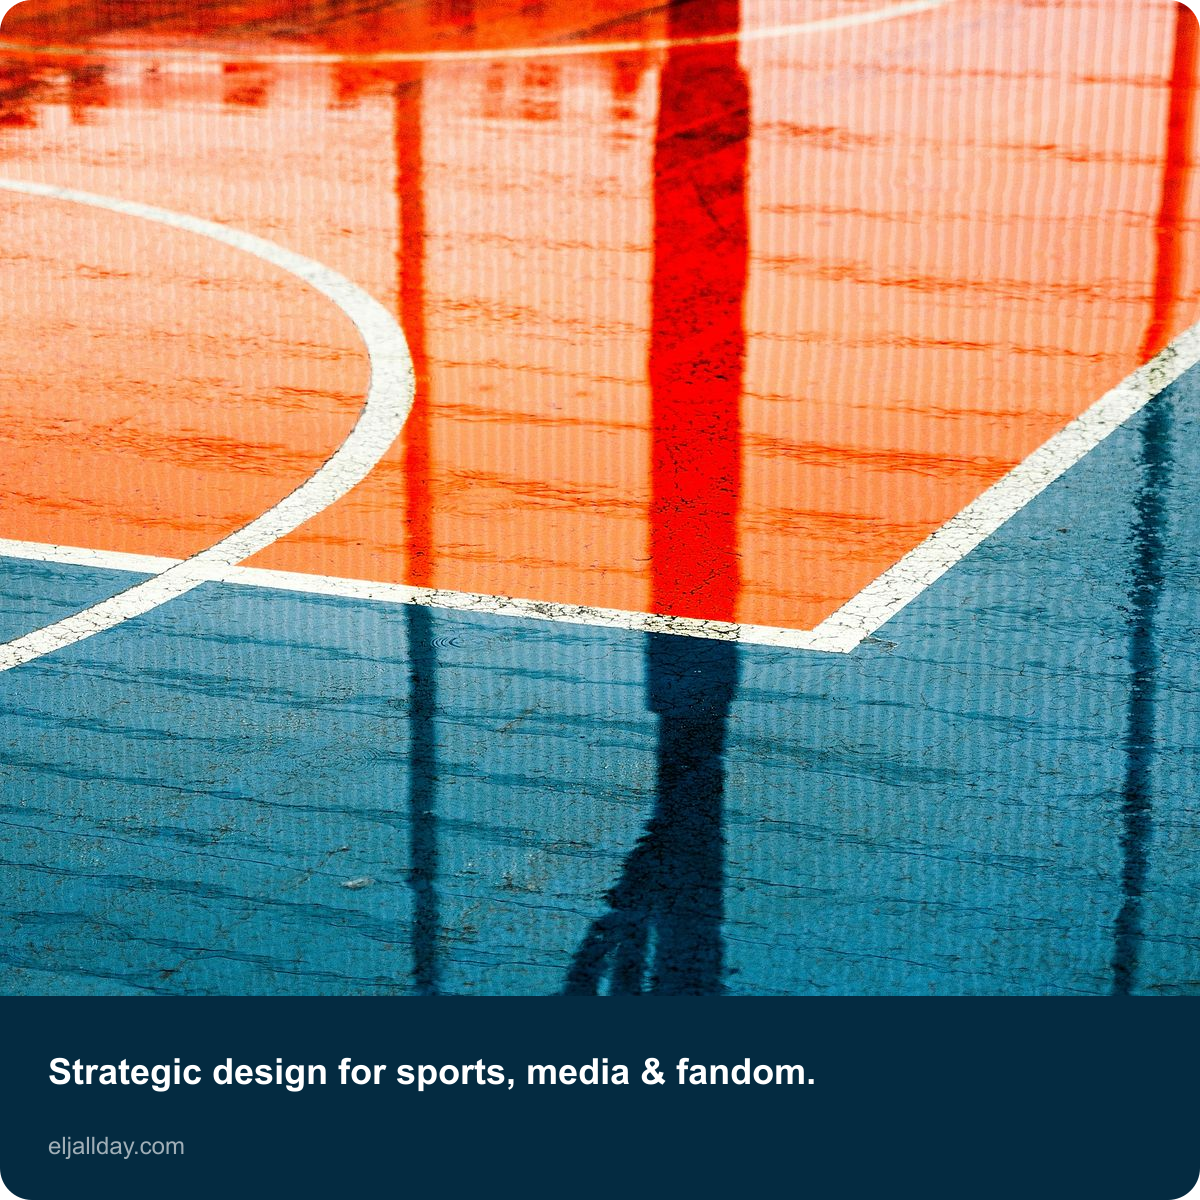
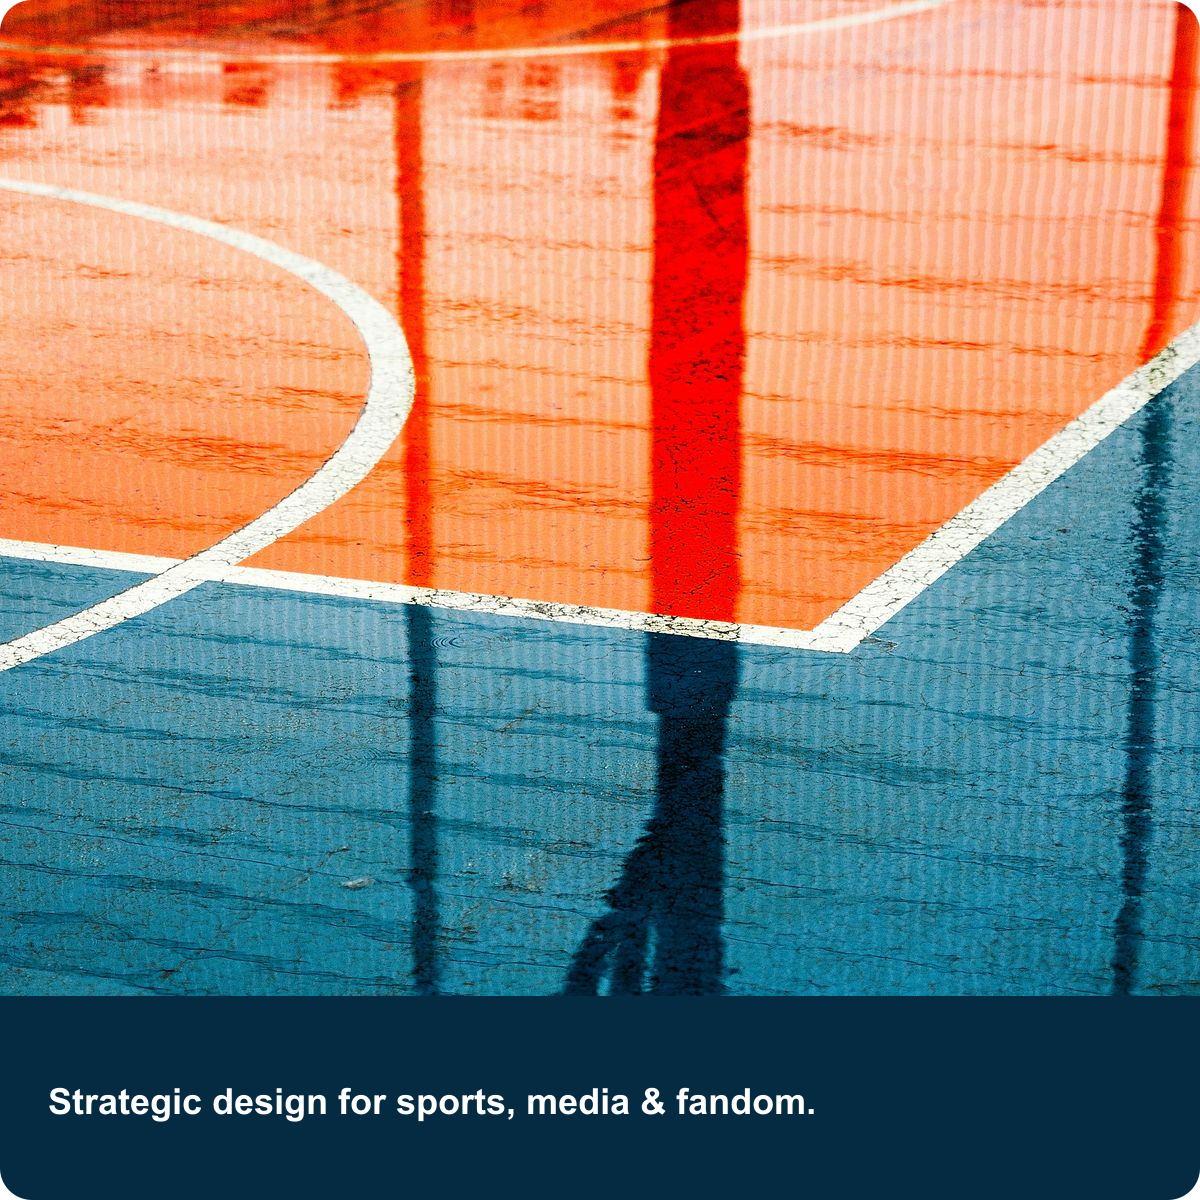
Fix iMessage duplicate URL in link previews.
Remove URL from the OG image footer and use the tagline as og:title so iMessage shows the domain once.

Changed region(s): [[0.0308, 0.8633, 0.6783, 0.9867]]

diff --git a/src/app/layout.tsx b/src/app/layout.tsx
@@ -45,7 +45,7 @@ export const metadata: Metadata = {
     title: SITE.name,
   },
   openGraph: {
-    title: "eljallday.com",
+    title: "Strategic design for sports, media & fandom.",
     description: "\u200B",
     url: SITE.url,
     siteName: "eljallday.com",
@@ -55,7 +55,7 @@ export const metadata: Metadata = {
   },
   twitter: {
     card: "summary_large_image",
-    title: "eljallday.com",
+    title: "Strategic design for sports, media & fandom.",
     description: "\u200B",
     images: [SITE.shareImagePath],
   },